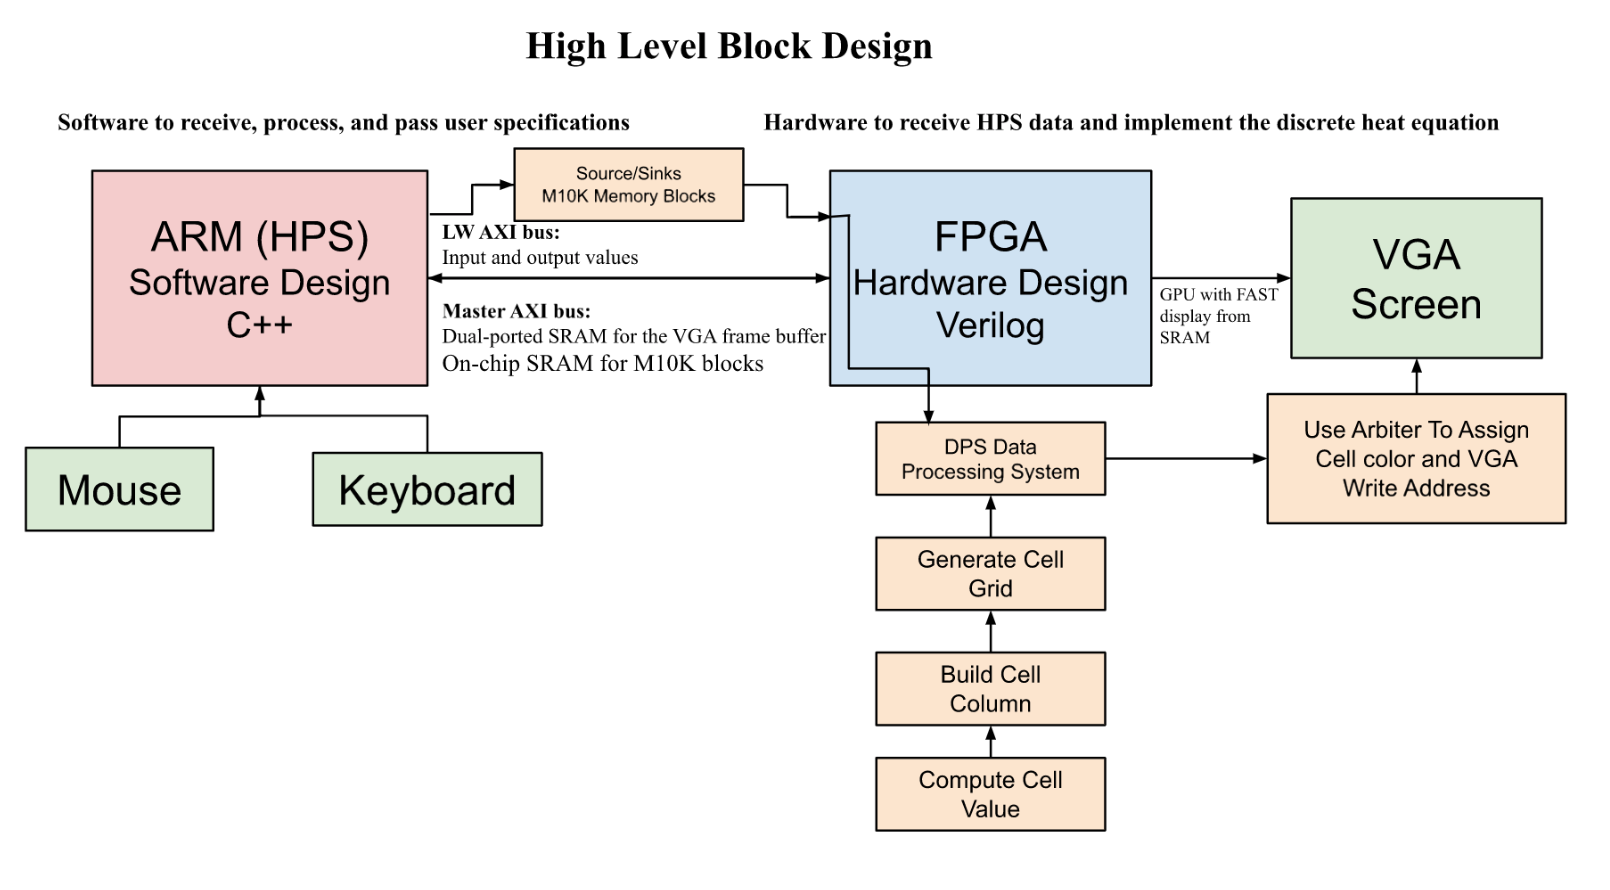
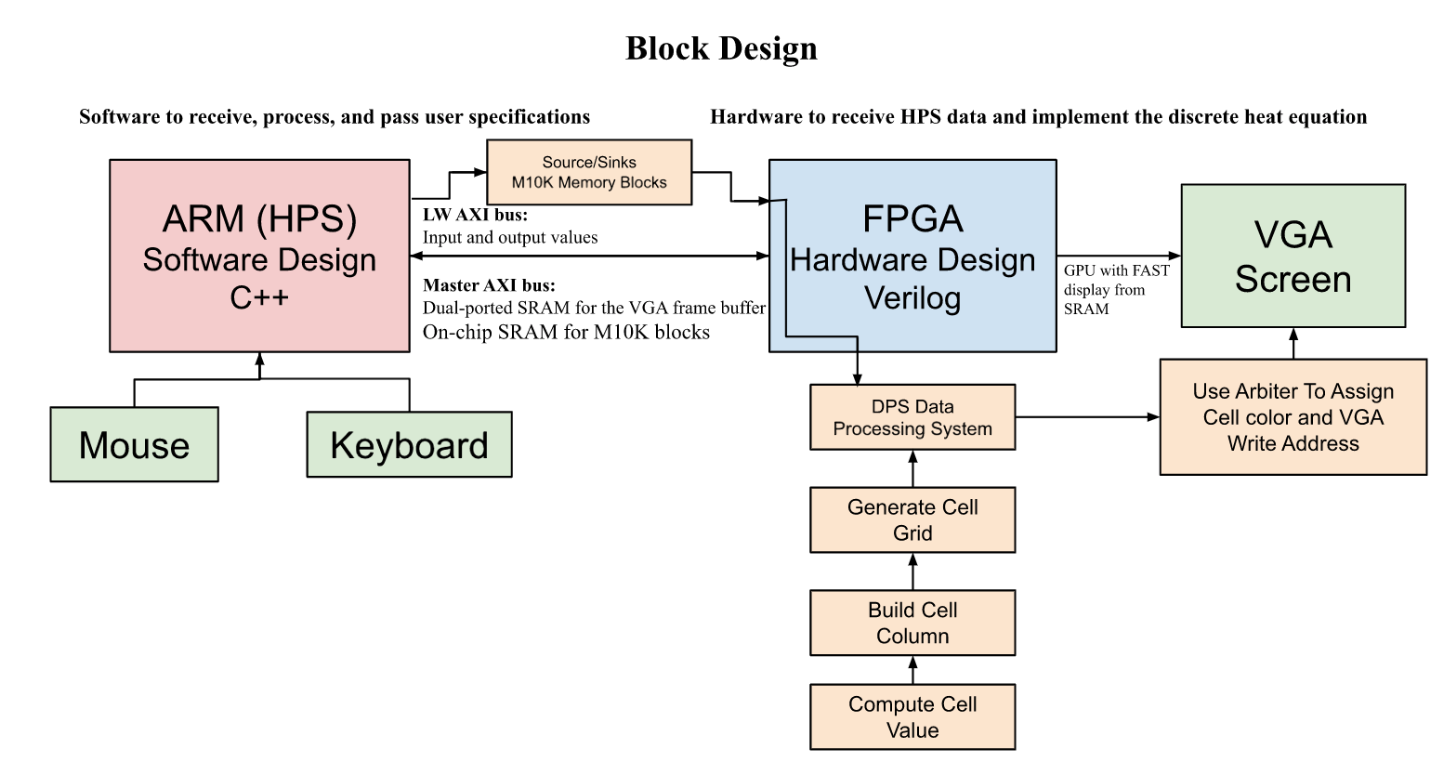
intro added, working on mathematical background

Changed region(s): [[0.0, 0.1244, 0.9945, 0.9948], [0.3108, 0.0311, 0.5905, 0.0933]]

diff --git a/index.html b/index.html
@@ -9,7 +9,7 @@
   <meta name="description" content="">
   <meta name="author" content="">
 
-  <title>Resonance Frequency Tester</title>
+  <title>Heat Diffusion Simulator</title>
 
   <!-- Bootstrap core CSS -->
   <link href="dist/css/bootstrap.min.css" rel="stylesheet">
@@ -24,11 +24,6 @@
   <!--[if lt IE 9]><script src="../../assets/js/ie8-responsive-file-warning.js"></script><![endif]-->
   <!-- <script src="../../assets/js/ie-emulation-modes-warning.js"></script> -->
 
-  <!-- HTML5 shim and Respond.js for IE8 support of HTML5 elements and media queries -->
-  <!--[if lt IE 9]>
-      <script src="https://oss.maxcdn.com/html5shiv/3.7.3/html5shiv.min.js"></script>
-      <script src="https://oss.maxcdn.com/respond/1.4.2/respond.min.js"></script>
-    <![endif]-->
 </head>
 
 <body>
@@ -63,24 +58,28 @@
   <div class="container">
 
     <div class="starter-template">
-      <h1>Resonance Frequency Tester Project</h1>
-      <p class="lead">by Guadalupe Bernal (gb438) and Nikitha Sharma (ns756).</p>
-      <h6 style="text-align:center;">ECE 5725 Final Project submitted on Wednesday December 14th 2022</p>
+      <h1>Heat Diffusion Simulator</h1>
+      <p class="lead">by Guadalupe Bernal (gb438), Nikitha Sharma (ns756), Frances Lee (fl296)</p>
+      <h6 style="text-align:center;">ECE 5760 Final Project submitted on May 18, 2023</p>
     </div>
 
     <hr id='obj'>
 
     <div class="row">
       <div style="text-align:center;">
-        <h2>Project Objective</h2>
+        <h2>Project Introduction</h2>
       </div>
 
-      <div class="col-md-8" style="font-size:18px;">
+      <div class="col-md-12" style="font-size:18px;">
         <ul>
-          <li>some important objectives.some important objectives.some important objectives.some important objectives.
-          </li>
-          <li>some other important objectives.</li>
-          <li>some not-that-important objectives.</li>
+          <p style="text-align: left;padding: 0px 30px;">
+          The goal of this project is to create an interactive heat diffusion simulation using the heat equation on a discrete domain, which allows the user to pick sources and sinks on the VGA screen and simulate the resultant reactions in real-time on the VGA screen. 
+          </p>
+
+          <p style="text-align: left;padding: 0px 30px;">          
+          To complete this project, we utilized the De1-SOC FPGA, a VGA screen, and a mouse, along with a robust hardware and software design. On the hardware side, our Verilog code utilizes hardware on the FPGA to generate a grid of cells, compute the thermal magnitude of each cell, select the respective color based on the magnitude, and plot the colors to the VGA. On the HPS side, our C++ code allows the user to inject heat on the VGA screen and to see the gradient-like visual effects in real time. We have one mode with preset sources/sinks and another mode with no sources/sinks. All together, we were able to utilize the knowledge and skills learned from our previous labs to build a beautiful simulation. 
+          </p>
+   
         </ul>
       </div>
     </div>
@@ -88,8 +87,33 @@
 
 
     <div style="text-align:center;">
-      <h2>Project Video</h2>
+      <h2>High Level Design</h2>
     </div>
+    
+    <p style="text-align: left;padding: 0px 30px;">   
+    Initially, we wanted to model individual Monarch butterfly behavior patterns and how they flock together, as they are known for their unique migration patterns and ability to navigate through environmental conditions based on temperature. Given more extensive research however, there were no equations out there to model flight patterns, so we pivoted to simulating the thermal distribution given a variety of heat sources and sinks in spirit of our original project. 
+    </p>
+    
+    <div style="text-align:left; padding: 0px 30px;">
+      <h3>Background Math</h3>
+    </div>
+
+    <p style="text-align: left;padding: 0px 30px;">   
+      <div style="text-align:center;">
+        <img class="img-rounded" src="pics/Background Math.png" alt="Generic placeholder image" style="width:80%;">
+      </div>
+    </p>
+
+
+
+    <div style="text-align:center;">
+      <img class="img-rounded" src="pics/High Level Design.png" alt="Generic placeholder image" style="width:80%;">
+    </div>
+
+
+
+
+
     <div class="center-block">
       <!-- VIDEO LINKED HERE -->
       <iframe width="560" height="315" src="https://www.youtube.com/embed/BHCQTJ3UhHM" title="YouTube video player"
@@ -178,7 +202,6 @@
     </div>
 
     <!-- BUDGET -->
-
 
     <hr id='budget'>
     <div style="text-align:center;">
